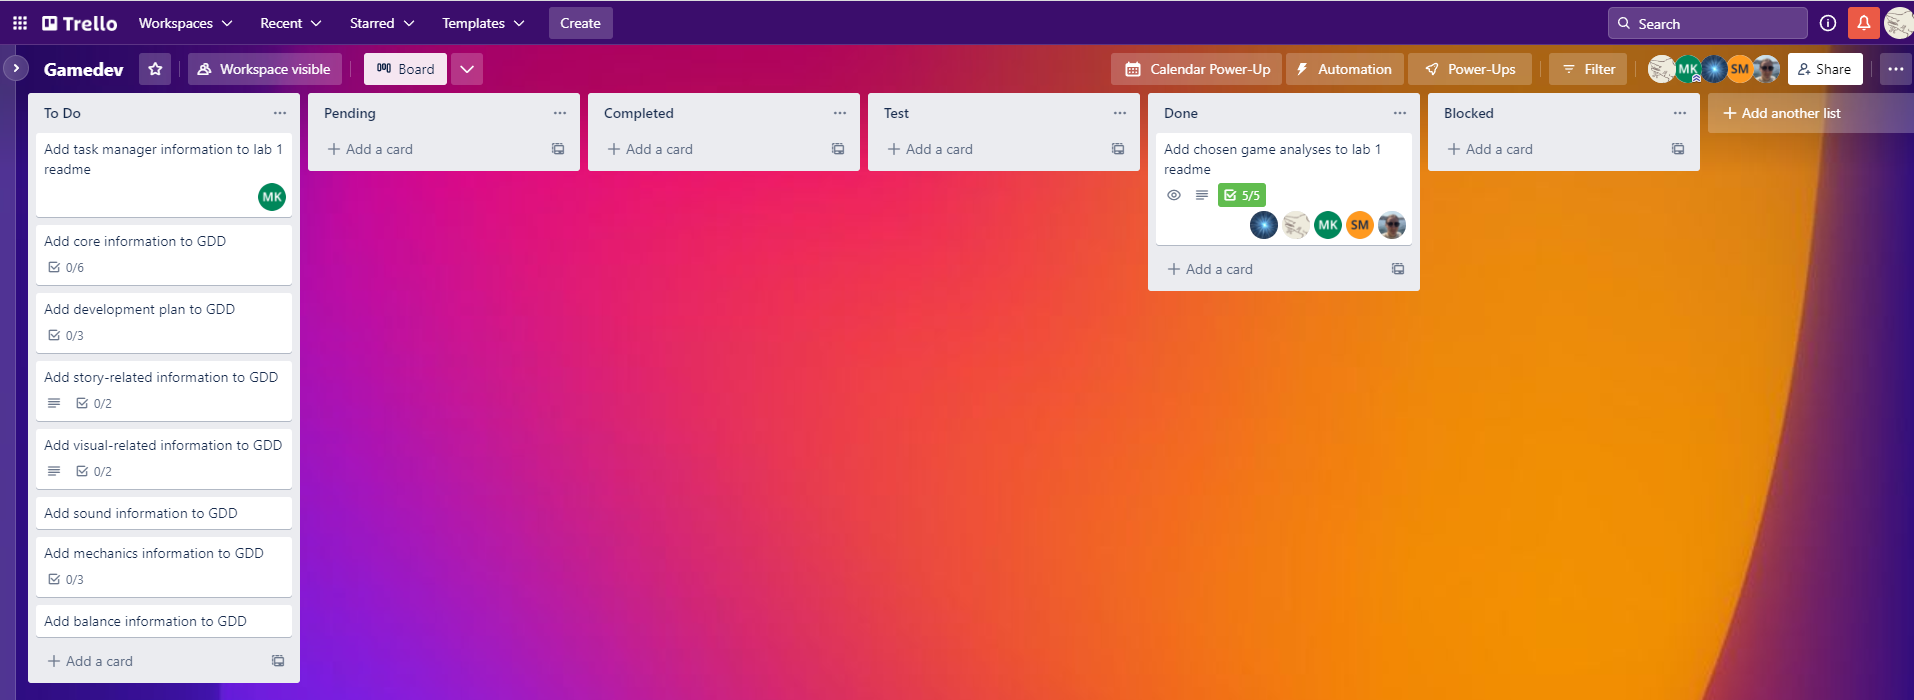
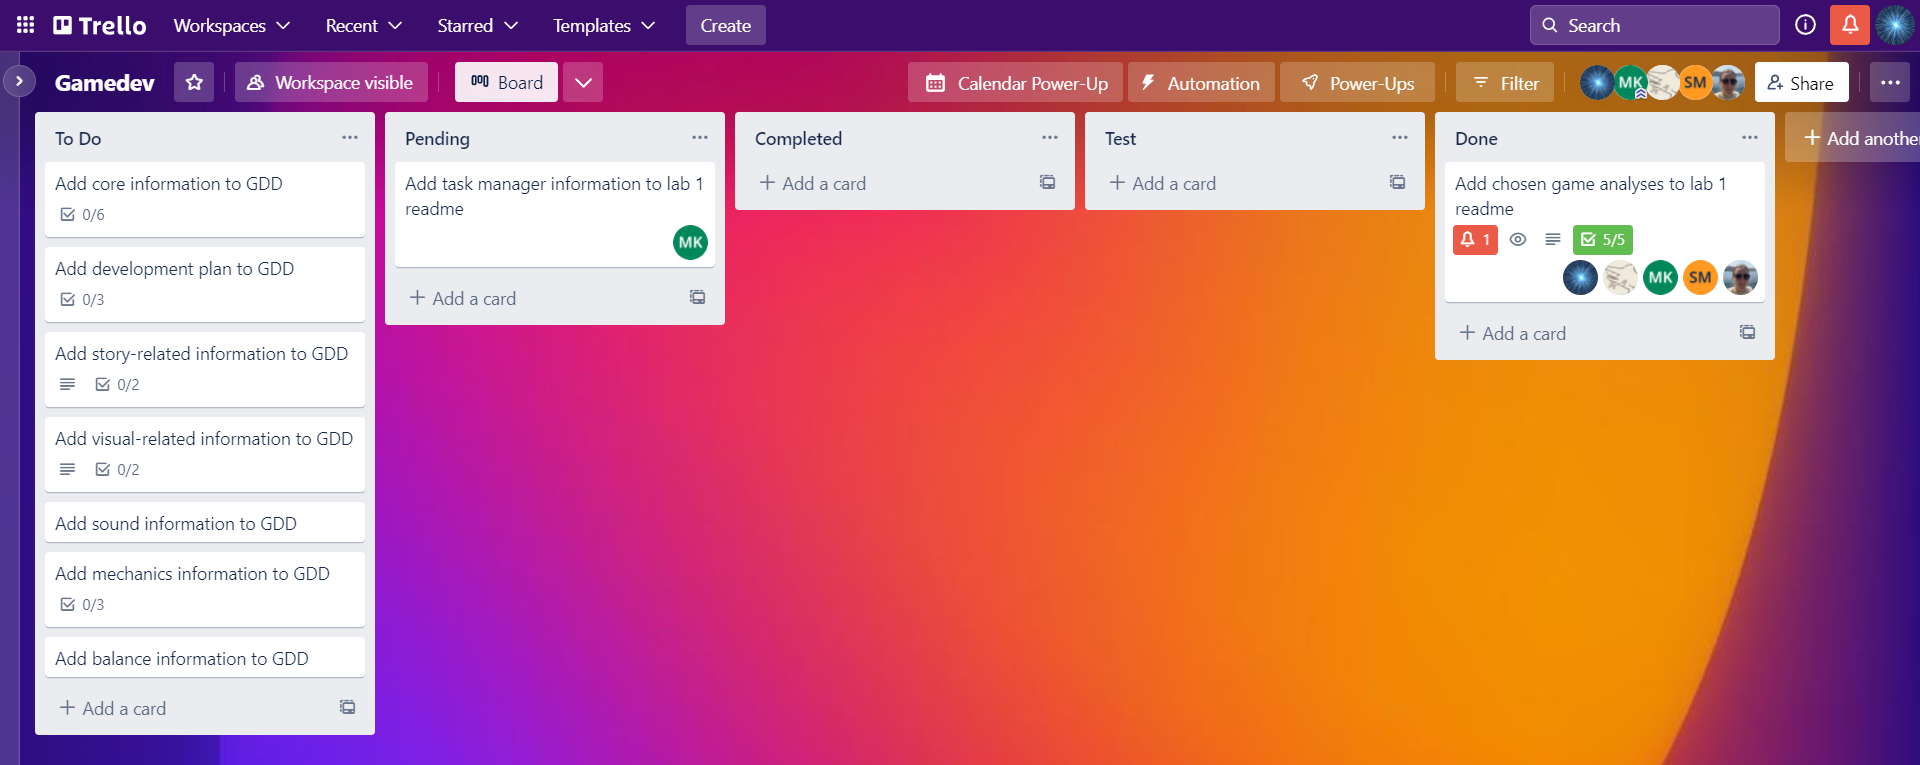
Fix inconsistencies in readme-lab-1
- Change Trello screenshot to the board without Blocked

- Remove placeholder text from Chosen games analysis

Changed region(s): [[0.0, 0.0, 1.0, 1.0]]

diff --git a/readme-lab-1.md b/readme-lab-1.md
@@ -16,13 +16,12 @@
 ## About team task management (screenshot/description)
 ![Trello](Miscellaneous/Trello.png)
 *To Do*: список запланованих features.  
-*In Progress*: список features, які розробляються.  
-*Complete*: список features, які є розробленими, але ще не тестованими.  
+*Pending*: список features, які розробляються.  
+*Completed*: список features, які є розробленими, але ще не тестованими.  
 *Test*: список features, які знаходяться в тестуванні.  
 *Done*: список features, які є завершеними.  
 
 ## Chosen games analysis
-Залиште тут у вільному форматі розбір вашої обраної гри на логічні компоненти основного та мета геймплею. Не забудьте зазначити назву гри, аби перевіряючий міг зробити зауваження у разі необхідності та обрати собі гру на вихідні.
 ### Omori
 *Учасник команди:* Новак А.В.
 
